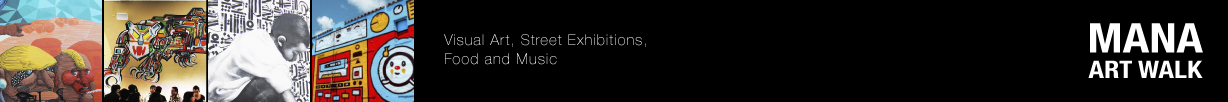
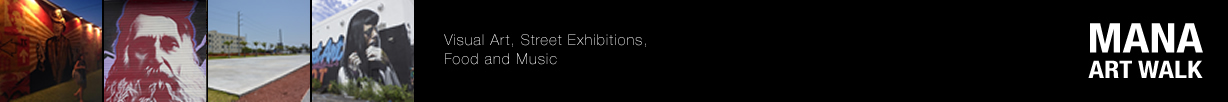
actualización imágenes

diff --git a/index.html b/index.html
@@ -51,7 +51,7 @@
     <section class="main-slider">
         <div id="mana-slider" class="royalSlider heroSlider rsMinW">
             <div class="rsContent">
-                <img class="rsImg" src="http://friendswithyou.com/magic/uploads/2012/12/ArtBasel_12_Blog_Post-02-1150x781.jpg" alt="">
+                <img class="rsImg" src="img/carrusel/home1.jpg" alt="">
                 <div class="infoBlock rsABlock">
                     <a href="#"></a>
                     <h4>Art Basel</h4>
@@ -60,7 +60,7 @@
                 </div>
             </div>
             <div class="rsContent">
-                <img class="rsImg" src="http://cdn2.thehundreds.com/wp-content/uploads/2013/12/Art-basel-part-3-06.jpg" alt="">
+                <img class="rsImg" src="img/carrusel/home2.jpg" alt="">
                 <div class="infoBlock rsABlock">
                     <a href="#"></a>
                     <h4>Art Basel</h4>
@@ -69,10 +69,28 @@
                 </div>
             </div>
              <div class="rsContent">
-                <img class="rsImg" src="http://listingpresentationnow.com/wp-content/uploads/2011/03/luxry-properties.jpg" alt="">
+                <img class="rsImg" src="img/carrusel/home3.jpg" alt="">
                 <div class="infoBlock rsABlock">
                     <a href="#"></a>
                     <h4>Mana Properties</h4>
+                    <p>Miami Beach at the nexus of North and South America and Hong Kong, the gateway to Asia.</p>
+                    <span>6 / F Luk Kwok Centre / Jul 6</span>
+                </div>
+            </div>
+            <div class="rsContent">
+                <img class="rsImg" src="img/carrusel/home4.jpg" alt="">
+                <div class="infoBlock rsABlock">
+                    <a href="#"></a>
+                    <h4>Mana Properties</h4>
+                    <p>Miami Beach at the nexus of North and South America and Hong Kong, the gateway to Asia.</p>
+                    <span>6 / F Luk Kwok Centre / Jul 6</span>
+                </div>
+            </div>
+            <div class="rsContent">
+                <img class="rsImg" src="img/carrusel/home5.jpg" alt="">
+                <div class="infoBlock rsABlock">
+                    <a href="#"></a>
+                    <h4>Art Basel</h4>
                     <p>Miami Beach at the nexus of North and South America and Hong Kong, the gateway to Asia.</p>
                     <span>6 / F Luk Kwok Centre / Jul 6</span>
                 </div>
@@ -85,14 +103,14 @@
             <div class="large-12 columns">
                 <div class="large-3 new-content columns">
                     <a href="#"></a>
-                    <img src="http://roneppinger.com/static/campaign/floorplans/PB%20master_1_jpg_300x150_crop_upscale_q85.jpg">
+                    <img src="img/properties.jpg">
                     <h3>Properties</h3>
                     <p>The standard 23NW</p>
                     <span class="arrow-tine"></span>
                 </div>
                 <div class="large-3 new-content columns">
                     <a href="#"></a>
-                    <img src="http://girlsclubcollection.org/wp-content/uploads/Drifting-aTheatricalExquisiteCorpse2-banner-300x150.jpg">
+                    <img src="img/production.jpg">
                     <h3>Production</h3>
                     <p>There are crearive control</p>
                     <span class="arrow-tine"></span>
@@ -107,21 +125,21 @@
                 <div class="large-3 new-content columns rs-default slide-events-home" id="slide-events-home">
                     <div class="rsContent left">
                         <a href="#"></a>
-                        <img src="http://www.cdacasino.com/images/events/calendar_thumb.jpg">
+                        <img src="img/events1.jpg">
                         <h3>Events</h3>
                         <p>David Guetta <br>Jul / 02 / 2015</p>
                     </div>
 
                     <div class="rsContent left">
                         <a href="#"></a>
-                        <img src="http://www.cdacasino.com/images/events/calendar_thumb.jpg">
+                        <img src="img/events2.jpg">
                         <h3>Events</h3>
                         <p>David Guetta <br>Jul / 02 / 2015</p>
                     </div>
                     
                     <div class="rsContent left">
                         <a href="#"></a>
-                        <img src="http://www.cdacasino.com/images/events/calendar_thumb.jpg">
+                        <img src="img/events3.jpg">
                         <h3>Events</h3>
                         <p>David Guetta <br>Jul / 02 / 2015</p>
                     </div>
